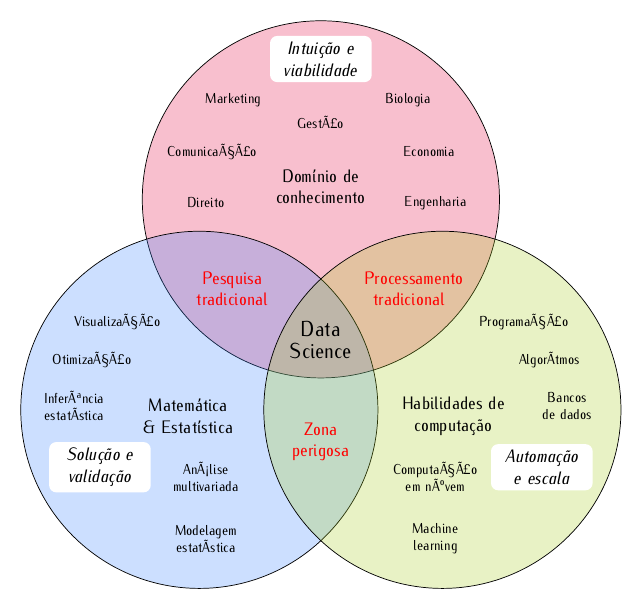
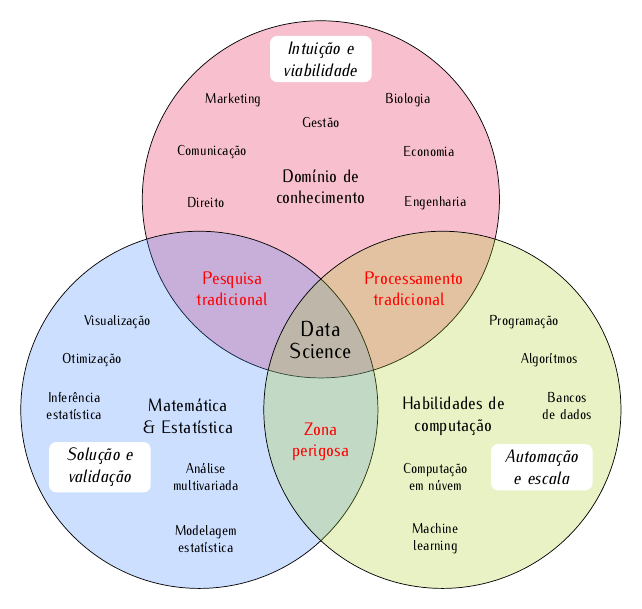
Fixes enconding.

diff --git a/README.md b/README.md
@@ -1856,20 +1856,20 @@ in on <http://www.leg.ufpr.br/~walmes/tikz/> (updated less frequently).
   \node at ( 70:5.00) {Biologia};
   \node at (110:5.00) {Marketing};
   \node at ( 60:4.25) {Economia};
-  \node at (120:4.25) {ComunicaÃ§Ã£o};
-  \node at ( 90:4.25) {GestÃ£o};
+  \node at (120:4.25) {Comunica{\c c}{\~a}o};
+  \node at ( 90:4.25) {Gest{\~a}o};
 
-  \node at ( 05:4.0) {ProgramaÃ§Ã£o};
-  \node at (-05:4.5) {AlgorÃtmos};
+  \node at ( 05:4.0) {Programa{\c c}{\~a}o};
+  \node at (-05:4.5) {Algor{\'\i}tmos};
   \node at (-15:5.0) {Bancos de dados};
-  \node at (-50:3.5) {ComputaÃ§Ã£o em nÃºvem};
+  \node at (-50:3.5) {Computa{\c c}{\~a}o em n{\'u}vem};
   \node at (-60:4.5) {Machine learning};
 
-  \node at (175:4.0) {VisualizaÃ§Ã£o};
-  \node at (185:4.5) {OtimizaÃ§Ã£o};
-  \node at (195:5.0) {InferÃªncia estatÃstica};
-  \node at (230:3.5) {AnÃ¡lise multivariada};
-  \node at (240:4.5) {Modelagem estatÃstica};
+  \node at (175:4.0) {Visualiza{\c c}{\~a}o};
+  \node at (185:4.5) {Otimiza{\c c}{\~a}o};
+  \node at (195:5.0) {Infer{\^e}ncia estat{\'\i}stica};
+  \node at (230:3.5) {An{\'a}lise multivariada};
+  \node at (240:4.5) {Modelagem estat{\'\i}stica};
 
 \end{scope}
 
